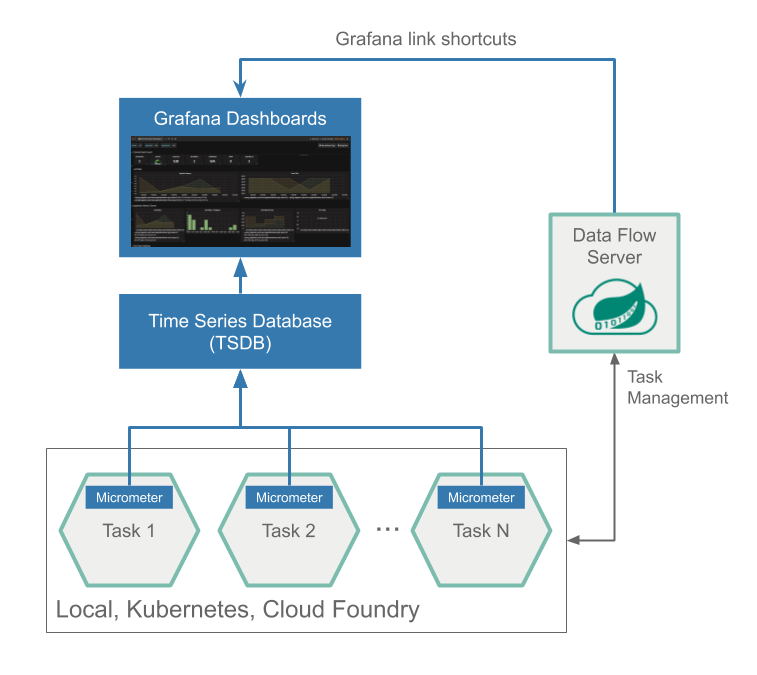
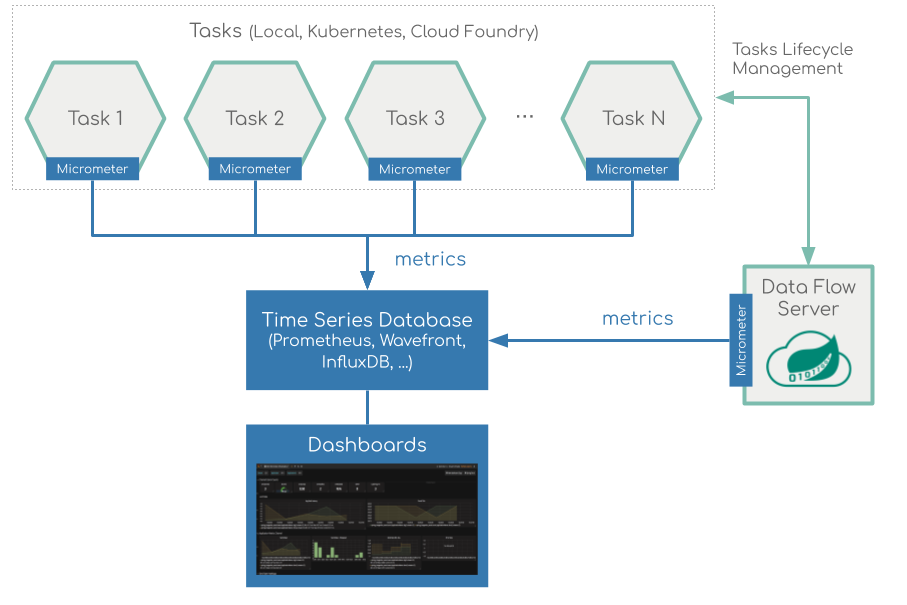
Document Wavefront monitoring for streams/tasks
- document Wavefront installation and configuration for different platforms.
 - Update Stream and Task monitoring architecture diagram.

 Resolves #241

 Part of https://github.com/spring-cloud/spring-cloud-dataflow/issues/3937

Changed region(s): [[0.0304, 0.0298, 0.9723, 0.9818], [0.6077, 0.1488, 0.638, 0.238], [0.5165, 0.1488, 0.5469, 0.238]]

diff --git a/content/documentation/pages/5-feature-guides/2-streams/12-monitoring.md b/content/documentation/pages/5-feature-guides/2-streams/12-monitoring.md
@@ -4,25 +4,35 @@ title: 'Stream Monitoring'
 description: 'Monitoring streaming data pipelines with Prometheus and InfluxDB'
 ---
 
-# Stream Monitoring with Prometheus and InfluxDB
+# Stream Monitoring with Prometheus, Wavefront and InfluxDB
 
 This section describes how to monitor the applications that were deployed as part of a Stream. The setup for each platform is different, but the general architecture is the same across all the platforms.
 
-The Data Flow 2.x metrics architecture is designed around the [Micrometer](https://micrometer.io/) library, which is a vendor-neutral application metrics facade. It provides a simple facade over the instrumentation clients for the most popular monitoring systems. See the [Micrometer documentation](https://micrometer.io/docs) for the list of supported monitoring systems. Starting with Spring Boot 2.0, Micrometer is the instrumentation library that powers the delivery of application metrics from Spring Boot. Spring Integration provides [additional integration](https://docs.spring.io/spring-integration/docs/current/reference/html/#micrometer-integration) to expose metrics around message rates and errors, which is critical to the monitoring of deployed streams.
+The Data Flow metrics architecture is designed around the [Micrometer](https://micrometer.io/) library, which is a vendor-neutral application metrics facade. It provides a simple facade over the instrumentation clients for the most popular monitoring systems. See the [Micrometer documentation](https://micrometer.io/docs) for the list of supported monitoring systems. Micrometer is the instrumentation library that powers the delivery of application metrics from Spring Boot. Spring Integration provides [additional integration](https://docs.spring.io/spring-integration/docs/current/reference/html/system-management.html#micrometer-integration) to expose metrics around message rates and errors, which is critical to the monitoring of deployed streams.
 
-All the [Spring Cloud Stream Application Starters](https://docs.spring.io/spring-cloud-dataflow/docs/current/reference/htmlsingle/#applications) are configured to support two of the most popular monitoring systems, [Prometheus](https://prometheus.io/) and [InfluxDB](https://www.influxdata.com/). You can declaratively select which monitoring system the deployed applications will use.
+All the Spring Cloud [Stream Applications](https://docs.spring.io/spring-cloud-dataflow/docs/current/reference/htmlsingle/#applications) are configured to support two of the most popular monitoring systems, [Prometheus](https://prometheus.io/), [Wavefront](https://www.wavefront.com/) and [InfluxDB](https://www.influxdata.com/). You can declaratively select which monitoring system the deployed applications will use.
+
+[Wavefront](https://docs.wavefront.com/wavefront_introduction.html) is a high-performance streaming analytics platform that supports 3D observability (metrics, histograms, traces/spans). It scales to very high data ingestion rates and query loads, while collecting data many services and sources across your entire application stack.
 
 [Prometheus](https://prometheus.io/) is a popular pull-based Time Series Database that pulls the metrics from the target applications with pre-configured endpoints and provides a query language to select and aggregate time series data in real time.
 
 [InfluxDB](https://www.influxdata.com/) is a popular open-source push-based Time Series Database. It supports downsampling, automatically expiring and deleting unwanted data, and backup and restore. Analysis of data is done through an SQL-like query language.
 
-If you do not use Prometheus or InfluxDB, you can [customize the Application Starters](https://docs.spring.io/spring-cloud-stream-app-starters/docs/current/reference/htmlsingle/#_patching_pre_built_applications) to use a different monitoring system. To help you get started monitoring streams, Data Flow provides [Grafana](https://grafana.com/) Dashboards that you can install and customize for your needs.
+To enable support for different monitoring systems, you can [customize the Stream Applications](https://docs.spring.io/spring-cloud-stream-app-starters/docs/current/reference/htmlsingle/#_patching_pre_built_applications) to use a different monitoring system.
+
+To help you get started monitoring streams, Data Flow provides [Grafana](https://grafana.com/) dashboards (for Prometheus and InfluxDB) that you can install and customize for your needs. For Wavefront you can use the Data Flow Integration Tail.
 
 The following image shows the general architecture of how streaming applications are monitored:
 
 ![Stream Monitoring Architecture](images/SCDF-stream-metrics-architecture.png)
 
+<!--NOTE-->
+
 Prometheus requires a Service Discovery component to automatically probe the configured endpoint for metrics. The Spring Cloud Data Flow server leverages the [Prometheus RSocket Proxy](https://github.com/micrometer-metrics/prometheus-rsocket-proxy), which uses `rsocket` protocol for the service-discovery mechanism. The RSocket Proxy approach is used so that we can monitor tasks, which are short lived, as well as long lived stream applications using the same architecture. See the micrometer documentation on [short-lived task/batch applications](https://github.com/micrometer-metrics/prometheus-rsocket-proxy#support-for-short-lived-or-serverless-applications) for more information. In addition, the RSocket approach allows for the same monitoring architecture to be used across all the platforms. Prometheus is configured to scrape each proxy instance. Proxies in turn use the RSocket connection to pull metrics from each application. The scraped metrics are then viewable through Grafana dashboards.
+
+<!--END_NOTE-->
+
+#### Data Flow Metric Tags
 
 To allow aggregating metrics per application type and per instance or per stream, the Spring Cloud Stream Application Starters are configured to use the following Micrometer tags:
 
@@ -38,13 +48,15 @@ If the Data Flow server is started with the `spring.cloud.dataflow.grafana-info.
 
 ![Runtime Applications Monitoring](images/grafana-scdf-ui-buttons-streams.png)
 
-Installing Prometheus and InfluxDB is different depending on the platform on which you run. Links to installation instructions are provides in each section below.
-
-For the local server, you can customize the [Docker Compose installation](%currentPath%/installation/local/docker-customize/#monitoring-with-prometheus-and-grafana). This will bring up
+Installing Wavefront, Prometheus and InfluxDB is different depending on the platform on which you run. Links to installation instructions are provides in each section below.
 
 ## Local
 
-This section describes how to view application metrics for streams using either Prometheus or InfluxDB as the metrics store on your local machine.
+This section describes how to view application metrics for streams using Prometheus or InfluxDB as the metrics store on your local machine. Wavefront is a cloud offering, but you still can deploy Data Flow locally can point it to your remote Wavefront monitoring system.
+
+<!--TABS-->
+
+<!--Prometheus -->
 
 ### Prometheus
 
@@ -74,6 +86,20 @@ dataflow:>stream create stream2 --definition "time --fixed-delay=10 --time-unit=
 You should see dashboards similar to those shown in the following image:
 
 ![SCDF Grafana Prometheus](images/grafana-prometheus-scdf-applications-dashboard.png)
+
+<!--Wavefront -->
+
+### Wavefront
+
+To install Data Flow with Wavefront support, follow the [Monitoring with Wavefront](%currentPath%/installation/local/docker-customize/#wavefront) Docker Compose instructions. This will bring up Spring Cloud Data Flow, Skipper, Apache Kafka, and point it to the Wavefront Data Flow Integration tile.
+
+The Wavefront is a SaaS offering and you need to create user account first and use it to set the `WAVEFRONT_KEY` and `WAVEFRONT_URI` environment variables as explained below.
+
+You should see dashboards similar to those shown in the following image:
+
+![SCDF Wavefront](images/SCDF-monitoring-wavefront-applications.png)
+
+<!--InfluxDB -->
 
 ### InfluxDB
 
@@ -110,7 +136,6 @@ docker exec -it grafana /bin/bash
 
 Then you can check the content of InfluxDB by running the following commands:
 
-<!-- Rolling my own to disable erroneous formatting -->
 <div class="gatsby-highlight" data-language="bash">
 <pre class="language-bash"><code>root:/# influx
 > show databases
@@ -119,9 +144,15 @@ Then you can check the content of InfluxDB by running the following commands:
 > select * from spring_integration_send limit 10
 </code></pre></div>
 
+<!--END_TABS-->
+
 ## Kubernetes
 
 This section describes how to view application metrics for streams using Prometheus as the metrics store on Kubernetes.
+
+<!--TABS-->
+
+<!--Prometheus -->
 
 ### Prometheus
 
@@ -162,9 +193,53 @@ You should see dashboards similar to those shown in the following image:
 
 ![SCDF Grafana Prometheus](images/grafana-prometheus-scdf-applications-dashboard.png)
 
+<!--Wavefront -->
+
+### Wavefront
+
+The Wavefront is a SaaS offering and you need to create user account first and obtain the `API-KEY` and `WAVEFRONT-URI` assigned to your account.
+
+Follow the general [Data Flow Kubernetes installation instructions](<(%currentPath%/installation/kubernetes/)>).
+
+Then add the following properties to your Spring Cloud Data Flow server configuration (e.g. `src/kubernetes/server/server-config.yaml`) for enabling the Wavefront Integration:
+
+```yml
+management:
+  metrics:
+    export:
+      wavefront:
+        enabled: true
+        api-token: <YOUR API-KEY>
+        uri: <YOUR WAVEFRONT-URI>
+        source: demo-scdf-source
+spring:
+  cloud:
+    dataflow:
+      applicationProperties:
+        stream:
+          management:
+            metrics:
+              export:
+                wavefront:
+                  enabled: true
+                  api-token: <YOUR API-KEY>
+                  uri: <YOUR WAVEFRONT-URI>
+                  source: demo-scdf-source
+```
+
+Then on the Wavefront portal you should see dashboards similar to those shown in the following image:
+
+![SCDF Wavefront](images/SCDF-monitoring-wavefront-applications.png)
+
+<!--END_TABS-->
+
 ## Cloud Foundry
 
 This section describes how to view application metrics for streams using Prometheus as the metrics store on Cloud Foundry.
+
+<!--TABS-->
+
+<!--Prometheus -->
 
 ### Prometheus
 
@@ -193,3 +268,17 @@ dataflow:>stream create metricstest --definition "time --fixed-delay=10 --time-u
 After deploying a stream, you can launch to view the Grafana dashboard as shown in the following image:
 
 ![SCDF Grafana Prometheus](images/grafana-prometheus-scdf-applications-dashboard.png)
+
+<!--Wavefront -->
+
+### Wavefront
+
+The Wavefront is a SaaS offering and you need to create user account first and obtain the `API-KEY` and `WAVEFRONT-URI` assigned to your account.
+
+To configure the Data Flow server's manifest to send metrics data from stream applications to the Wavefront monitoring system, follow the [Manifest based Wavefront configuration instructions](%currentPath%/installation/cloudfoundry/cf-cli/#configuration-for-wavefront).
+
+Then on the Wavefront portal you should see dashboards similar to those shown in the following image:
+
+![SCDF Wavefront](images/SCDF-monitoring-wavefront-applications.png)
+
+<!--END_TABS-->

diff --git a/content/documentation/pages/5-feature-guides/3-batch/4-monitoring.md b/content/documentation/pages/5-feature-guides/3-batch/4-monitoring.md
@@ -8,9 +8,11 @@ description: 'Monitoring task data pipelines with InfluxDB'
 
 This section describes how to monitor the applications that were deployed as part of a Task definition in Data Flow. The setup for each platform is different, but the general architecture is the same across the platforms.
 
-The Data Flow 2.x metrics architecture is designed around the [Micrometer](https://micrometer.io/) library, which is a vendor-neutral application metrics facade. It provides a simple facade over the instrumentation clients for the most popular monitoring systems. See the [Micrometer documentation](https://micrometer.io/docs) for the list of supported monitoring systems. Starting with Spring Boot 2.0, Micrometer is the instrumentation library that powers the delivery of application metrics from Spring Boot. Spring Batch provides [additional integration](https://docs.spring.io/spring-batch/4.2.x/reference/html/monitoring-and-metrics.html) to expose metrics around task durations, rates and errors, which is critical to the monitoring of deployed batch-jobs.
+The Data Flow metrics architecture is designed around the [Micrometer](https://micrometer.io/) library, which is a vendor-neutral application metrics facade. It provides a simple facade over the instrumentation clients for the most popular monitoring systems. See the [Micrometer documentation](https://micrometer.io/docs) for the list of supported monitoring systems. Micrometer is the instrumentation library that powers the delivery of application metrics from Spring Boot. Spring Batch provides [additional integration](https://docs.spring.io/spring-batch/4.2.x/reference/html/monitoring-and-metrics.html) to expose metrics around task durations, rates and errors, which is critical to the monitoring of deployed batch-jobs.
 
-We will focus on using two Time Series Databases, Prometheus and InfluxDB.
+We will focus on using three Time Series Databases, Wavefront, Prometheus and InfluxDB.
+
+[Wavefront](https://docs.wavefront.com/wavefront_introduction.html) is a high-performance streaming analytics platform that supports 3D observability (metrics, histograms, traces/spans). It scales to very high data ingestion rates and query loads, while collecting data many services and sources across your entire application stack.
 
 [Prometheus](https://prometheus.io/) is a popular pull-based Time Series Database that pulls the metrics from the target applications with pre-configured endpoints and provides a query language to select and aggregate time series data in real time.
 
@@ -69,7 +71,13 @@ The following image shows the general architecture of how task applications are 
 
 ![Task Monitoring Architecture](images/SCDF-task-metrics-architecture.png)
 
+<!--NOTE-->
+
 Prometheus requires a Service Discovery component to automatically probe the configured endpoint for metrics. The Spring Cloud Data Flow server leverages the [Prometheus RSocket Proxy](https://github.com/micrometer-metrics/prometheus-rsocket-proxy), which uses `rsocket` protocol for the service-discovery mechanism. The RSocket Proxy approach is used so that we can monitor tasks, which are short lived, as well as long lived stream applications using the same architecture. See the micrometer documentation on [short-lived task/batch applications](https://github.com/micrometer-metrics/prometheus-rsocket-proxy#support-for-short-lived-or-serverless-applications) for more information. In addition, the RSocket approach allows for the same monitoring architecture to be used across all the platforms. Prometheus is configured to scrape each proxy instance. Proxies in turn use the RSocket connection to pull metrics from each application. The scraped metrics are then viewable through Grafana dashboards.
+
+<!--END_NOTE-->
+
+#### Spring Cloud Task Metric Tags
 
 To allow aggregating metrics per application type and per instance id or per task name, the Spring Cloud Task applications are configured to use the following Micrometer tags:
 
@@ -80,7 +88,7 @@ To allow aggregating metrics per application type and per instance id or per tas
 
 If the Data Flow server is started with the `spring.cloud.dataflow.grafana-info.url` property pointing to your Grafana URL, the Grafana feature is enabled and the Data Flow UI provides you with Grafana buttons that can open a particular dashboard for a given task.
 
-Installing Prometheus and InfluxDB is different depending on the platform on which you run. Links to installation instructions are provides in each section below.
+Installing Wavefront, Prometheus and InfluxDB is different depending on the platform on which you run. Links to installation instructions are provides in each section below.
 
 ## Local
 
@@ -124,6 +132,18 @@ And in [Grafana dashboard for Tasks](http://localhost:3000/d/scdf-tasks/tasks?re
 
 ![SCDF Task Grafana Prometheus Dashboard](images/SCDF-task-metrics-grafana-prometheus-dashboard.png)
 
+<!--Wavefront-->
+
+### Wavefront
+
+To install Data Flow with Wavefront support, follow the [Monitoring with Wavefront](%currentPath%/installation/local/docker-customize/#wavefront) Docker Compose instructions. This will bring up Spring Cloud Data Flow, Skipper, Apache Kafka, and point it to the Wavefront Data Flow Integration Tile.
+
+The Wavefront is a SaaS offering and you need to create user account first and use it to set the `WAVEFRONT_KEY` and `WAVEFRONT_URI` environment variables as explained below.
+
+You should see dashboards similar to those shown in the following image:
+
+![SCDF Wavefront](images/SCDF-monitoring-wavefront-task.png)
+
 <!--InfluxDB-->
 
 ### InfluxDB
@@ -163,6 +183,10 @@ You should see dashboards similar to those shown in the following image:
 ## Kubernetes
 
 This section describes how to view application metrics for task using Prometheus or InfluxDB as the metrics store on Kubernetes.
+
+<!--TABS-->
+
+<!--Prometheus -->
 
 ### Prometheus
 
@@ -227,6 +251,46 @@ Open the [Grafana dashboard for Tasks](http://192.168.99.100:31595/d/scdf-tasks/
 
 ![SCDF Task Grafana Prometheus Dashboard](images/SCDF-task-metrics-grafana-prometheus-dashboard.png)
 
+<!--Wavefront -->
+
+### Wavefront
+
+The Wavefront is a SaaS offering and you need to create user account first and obtain the `API-KEY` and `WAVEFRONT-URI` assigned to your account.
+
+Follow the general [Data Flow Kubernetes installation instructions](<(%currentPath%/installation/kubernetes/)>).
+
+Then add the following properties to your Spring Cloud Data Flow server configuration (e.g. `src/kubernetes/server/server-config.yaml`) for enabling the Wavefront Integration:
+
+```yml
+management:
+  metrics:
+    export:
+      wavefront:
+        enabled: true
+        api-token: <YOUR API-KEY>
+        uri: <YOUR WAVEFRONT-URI>
+        source: demo-scdf-source
+spring:
+  cloud:
+    dataflow:
+      applicationProperties:
+        task:
+          management:
+            metrics:
+              export:
+                wavefront:
+                  enabled: true
+                  api-token: <YOUR API-KEY>
+                  uri: <YOUR WAVEFRONT-URI>
+                  source: demo-scdf-source
+```
+
+Then on the Wavefront portal you should see dashboards similar to those shown in the following image:
+
+![SCDF Wavefront](images/SCDF-monitoring-wavefront-task.png)
+
+<!--END_TABS-->
+
 ## Cloud Foundry
 
 This section describes how to view application metrics for streams using Prometheus and InfluxDB as the metrics store on Cloud Foundry.
@@ -271,6 +335,18 @@ In the [DataFlow task execution UI](http://localhost:9393/dashboard/#/tasks/exec
 And in [Grafana dashboard for Tasks](http://localhost:3000/d/scdf-tasks/tasks?refresh=10s):
 
 ![SCDF Task Grafana Prometheus Dashboard](images/SCDF-task-metrics-grafana-prometheus-dashboard.png)
+
+<!--Wavefront -->
+
+### Wavefront
+
+The Wavefront is a SaaS offering and you need to create user account first and obtain the `API-KEY` and `WAVEFRONT-URI` assigned to your account.
+
+To configure the Data Flow server's manifest to send metrics data from stream applications to the Wavefront monitoring system, follow the [Manifest based Wavefront configuration instructions](%currentPath%/installation/cloudfoundry/cf-cli/#configuration-for-wavefront).
+
+Then on the Wavefront portal you should see dashboards similar to those shown in the following image:
+
+![SCDF Wavefront](images/SCDF-monitoring-wavefront-task.png)
 
 <!--InfluxDB-->
 

diff --git a/content/documentation/pages/2-concepts/6-monitoring.md b/content/documentation/pages/2-concepts/6-monitoring.md
@@ -12,20 +12,27 @@ The Data Flow metrics architecture is designed around the Micrometer library, wh
 
 The Micrometer instrumentation library powers the delivery of application metrics from Spring Boot and includes metrics for message rates and errors, which is critical to the monitoring of deployed streams.
 
-The prebuilt applications are configured to support two of the most popular monitoring systems, Prometheus and InfluxDB. You can declaratively select which monitoring system to use.
+The prebuilt applications are configured to support two of the most popular monitoring systems, Prometheus, Wavefront and InfluxDB. You can declaratively select which monitoring system to use.
 
-To help you get started, Data Flow provides Grafana Dashboards that you can customize for your needs.
+To help you get started, Data Flow provides Grafana and Wavefront dashboards that you can customize for your needs.
+You can also opt for the Cloud Service , [Wavefront Data Flow Integration Tile](https://www.wavefront.com/integrations/).
 
-The following image shows the creation of two streams defined with the `time | filter | log` DSL expression:
+Follow the [Stream Monitoring Feature Guide](%currentPath%/feature-guides/streams/monitoring/) and [Task Monitoring Feature Guide](%currentPath%/feature-guides/batch/monitoring/) for detailed information on how to set up the monitoring infrastructure.
 
-![Two stream definitions](images/monitoring-stream-defs.png)
+The following image shows Data Flow with enabled monitoring and Grafana buttons:
+
+![Two stream definitions](images/SCDF-monitoring-grafana-buttons.png)
 
 The following image shows the Stream applications view in the Grafana dashboard:
 
-![Grafana Streams Dashboard](images/grafana-dashboard.png)
+![Grafana Streams Dashboard|250X190](images/SCDF-monitoring-grafana-stream.png)
 
 Here's the Tasks & Batch applications view in Grafana dashboard:
 
-![Grafana Tasks Dashboard](images/SCDF-metrics-grafana-task.png)
+![Grafana Tasks Dashboard](images/SCDF-monitoring-grafana-task.png)
 
-The [Stream Monitoring Feature Guide](%currentPath%/feature-guides/streams/monitoring/) and [Task Monitoring Feature Guide](%currentPath%/feature-guides/batch/monitoring/) contains detailed information on how to set up the monitoring infrastructure.
+Here's Wavefront Stream applications dashboard:
+
+![Wavefront Stream Application Dashboard](images/SCDF-monitoring-wavefront-applications.png)
+
+Next: visit the [Stream Monitoring Feature Guide](%currentPath%/feature-guides/streams/monitoring/) and [Task Monitoring Feature Guide](%currentPath%/feature-guides/batch/monitoring/) guides for further information on how to set up the Data Flow monitoring infrastructure.

diff --git a/content/documentation/pages/1-installation/2-cloudfoundry/1-cf-cli.md b/content/documentation/pages/1-installation/2-cloudfoundry/1-cf-cli.md
@@ -314,6 +314,39 @@ services:
   - postgresSQL
 ```
 
+#### Configuration for Wavefront
+
+If you have a Wavefront SaaS account you can enable the Task and Stream metrics integration you need to extend the Data Flow server manifest by adding following JSON to the `SPRING_APPLICATION_JSON` environment variable:
+
+```json
+        "management.metrics.export.wavefront": {
+                "enabled": true,
+                "api-token": "<YOUR API Token>",
+                "uri": "<YOUR WAVEFRONT URI>",
+                "srouce": "your-scdf-cf-source-id"
+        },
+        "spring.cloud.dataflow.applicationProperties": {
+            "task.management.metrics.export.wavefront": {
+                "enabled": true,
+                "api-token": "<YOUR API Token>",
+                "uri": "<YOUR WAVEFRONT URI>",
+                "srouce": "your-scdf-cf-source-id"
+            },
+            "stream.management.metrics.export.wavefront": {
+                "enabled": true,
+                "api-token": "<YOUR API Token>",
+                "uri": "<YOUR WAVEFRONT URI>",
+                "srouce": "your-scdf-cf-source-id"
+            }
+        }
+```
+
+Check the [Wavefront Actuator properties](https://docs.spring.io/spring-boot/docs/2.3.1.RELEASE/reference/html/production-ready-features.html#production-ready-metrics-export-wavefront) for further details about the `management.metrics.export.wavefront.XXX` properties.
+
+Once you are ready with the relevant properties in your manifest file,
+you can issue a `cf push` command from the directory where this file is
+stored.
+
 #### Configuration for InfluxDB
 
 If you have installed the InfluxDB and Grafana on Cloud Foundry or have a separate installation of them on another cluster, to enable the Task and Stream metrics integration you need to extend the Data Flow server manifest by adding following JSON to the `SPRING_APPLICATION_JSON` environment variable:
